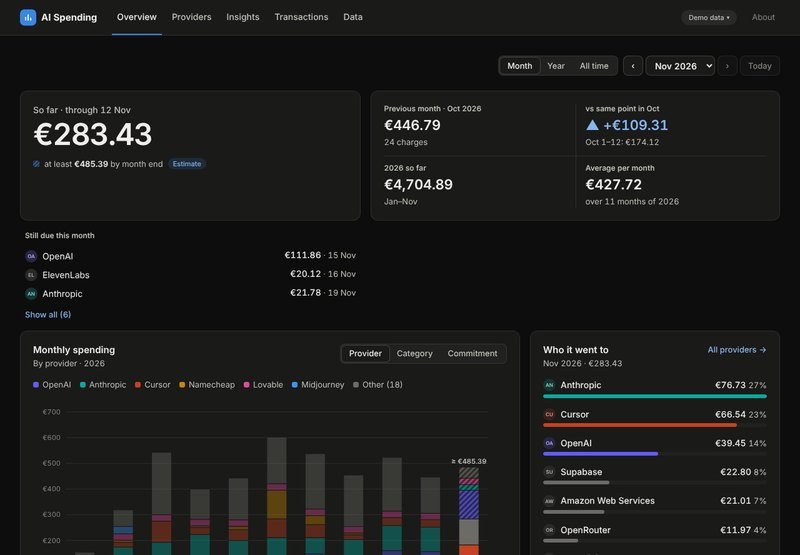
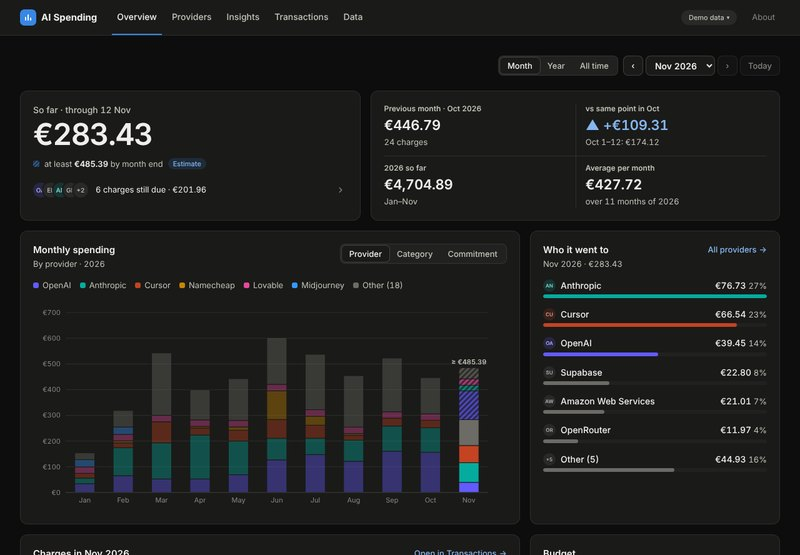
Overview: still-due row in the hero card with a popover
The still-due list under the hero card is gone. Inside the card, under the
estimate line, one clickable row shows an overlapping stack of the
providers still due, the count and sum, and a chevron. It opens a popover
anchored to the row (a bottom sheet on a phone) with every charge, the
usage so far and How is this estimated?, so the card keeps its height.
Escape or a click outside closes it. Nothing shows when nothing is still
due. Screenshots, README and changelog updated.

Claude-Session: https://claude.ai/code/session_01Qfp4rLyXRfcCbxc21jCuL9

diff --git a/src/components/OverviewHero.tsx b/src/components/OverviewHero.tsx
@@ -1,5 +1,6 @@
-import { useState, type ReactNode } from 'react';
+import { useEffect, useId, useRef, useState, type ReactNode } from 'react';
 import { filterPeriod, monthDrillDown, monthTotalThroughDay, rowsInMonths, totalsByMonth } from '../lib/analytics';
+import { OTHER_KEY } from '../lib/colors';
 import { addMonths, dateLabelShort, dayOf, monthLabel, monthOf, monthShort, yearOf } from '../lib/dates';
 import { STALE_AFTER_DAYS, type Forecast } from '../lib/forecast';
 import { formatEUR, sumCents } from '../lib/money';
@@ -7,7 +8,7 @@ import { describeOneTime, formatSignedNoBreak, oneTimeNote } from '../lib/oneTim
 import type { Period, Transaction } from '../lib/types';
 import { href, providerHref } from '../router';
 import { useLedger } from '../store';
-import { Button, Card, Change, Disclosure, ProviderAvatar, ReadChip, StatTile, StreamName } from './ui';
+import { Button, Card, Change, Chevron, Disclosure, ProviderAvatar, ReadChip, StatTile, StreamName } from './ui';
 
 /** The estimate for the month in progress. */
 export type HeroForecast = Extract<Forecast, { status: 'ok' | 'insufficient' }>;
@@ -24,8 +25,8 @@ export function heroLabel(period: Period, inProgress: boolean, yearInProgress: b
 
 /**
  * Row 1, left: a card as tall as the stat tile card, content at its top left: the label, the period's total and, for the month in
- * progress, "at least €X by month end" with a hatched swatch and an Estimate pill. What the estimate is made of is under the card
- * (`StillDue`).
+ * progress, "at least €X by month end" with a hatched swatch and an Estimate pill, and under it one row that opens what the
+ * estimate adds (`StillDueRow`), when anything is still due.
  */
 export function OverviewHero({
   label,
@@ -43,104 +44,165 @@ export function OverviewHero({
       <div className="hero-label">{label}</div>
       <div className="amt-hero num">{formatEUR(totalCents)}</div>
       {inProgress && forecast.status === 'ok' && (
-        <div className="hero-est">
-          {forecast.stillToComeCents > 0 && <span className="swatch-hatch" aria-hidden="true" />}
-          <span>
-            at least <strong className="num">{formatEUR(forecast.atLeastCents)}</strong> by month end
-          </span>
-          <ReadChip>Estimate</ReadChip>
-        </div>
+        <>
+          <div className="hero-est">
+            {forecast.stillToComeCents > 0 && <span className="swatch-hatch" aria-hidden="true" />}
+            <span>
+              at least <strong className="num">{formatEUR(forecast.atLeastCents)}</strong> by month end
+            </span>
+            <ReadChip>Estimate</ReadChip>
+          </div>
+          {forecast.expected.length > 0 && <StillDueRow forecast={forecast} />}
+        </>
       )}
       {inProgress && forecast.status === 'insufficient' && <div className="hero-est">No month-end estimate: {forecast.reason}</div>}
     </Card>
   );
 }
 
-const STILL_DUE_SHOWN = 3;
+const STACK_MAX = 4;
 
 /**
- * Under the hero card, for the month in progress only: the first three recurring charges that the estimate adds (avatar, provider,
- * amount, expected date). "Show all (N)" opens the rest, with how the estimate is worked out.
+ * One clickable row in the hero card: an overlapping stack of the providers still due (four at most, then "+N"), "N charges still
+ * due · €X" and a chevron. It opens a popover anchored to the row (a bottom sheet on a phone), so the card never changes height.
+ * Nothing is rendered when nothing is still due (the caller checks).
  */
-export function StillDue({ forecast: f }: { forecast: Extract<Forecast, { status: 'ok' }> }) {
-  const { span } = useLedger();
-  const [all, setAll] = useState(false);
-  const lastRecorded = span?.lastDate;
+function StillDueRow({ forecast: f }: { forecast: Extract<Forecast, { status: 'ok' }> }) {
+  const [open, setOpen] = useState(false);
+  const wrap = useRef<HTMLDivElement>(null);
+  const trigger = useRef<HTMLButtonElement>(null);
+  const sheet = useRef<HTMLDivElement>(null);
+  const id = useId();
   const n = f.expected.length;
-  const shown = all ? f.expected : f.expected.slice(0, STILL_DUE_SHOWN);
-  // With nothing hidden there is nothing to open, so the notes and the explanation are simply there.
-  const notes = all || n <= STILL_DUE_SHOWN;
+  const sum = sumCents(f.expected.map((e) => ({ amountCents: e.cents })));
+  const providers = [...new Set(f.expected.map((e) => e.provider))];
+  const shown = providers.slice(0, STACK_MAX);
+  const more = providers.length - shown.length;
+
+  const close = (returnFocus: boolean) => {
+    setOpen(false);
+    if (returnFocus) trigger.current?.focus();
+  };
+  useEffect(() => {
+    if (!open) return;
+    sheet.current?.focus();
+    const onDown = (e: MouseEvent) => !wrap.current?.contains(e.target as Node) && setOpen(false);
+    const onKey = (e: KeyboardEvent) => {
+      if (e.key === 'Escape') {
+        setOpen(false);
+        trigger.current?.focus();
+      }
+    };
+    document.addEventListener('mousedown', onDown);
+    document.addEventListener('keydown', onKey);
+    return () => {
+      document.removeEventListener('mousedown', onDown);
+      document.removeEventListener('keydown', onKey);
+    };
+  }, [open]);
+
   return (
-    <div className="still-due">
-      <div className="section-label">Still due this month</div>
-      {n === 0 ? (
-        <p className="meta">No recurring charges are still due this month.</p>
-      ) : (
-        <div className="due-list">
-          {shown.map((e) => (
-            <div key={`${e.provider}|${e.merchant}|${e.date}`} className="due-row">
-              <span className="due-name">
-                <ProviderAvatar provider={e.provider} size={20} />
-                <span className="due-text">
-                  <a className="provider-cell" href={providerHref(e.provider)}>{e.provider}</a>
-                  <StreamName provider={e.provider} merchant={e.merchant} labelOnly />
-                </span>
-              </span>
-              <span className="due-amount num" title={e.confirmed ? 'You confirmed this subscription' : 'Found by the pattern rule: monthly for 3+ months, last charged last month'}>
-                {formatEUR(e.cents)}
-                <span className="due-date"> · {dateLabelShort(e.date)}</span>
-              </span>
-            </div>
+    <div className="still-due" ref={wrap}>
+      <button
+        type="button"
+        ref={trigger}
+        className="still-due-row"
+        aria-haspopup="dialog"
+        aria-expanded={open}
+        aria-controls={open ? id : undefined}
+        onClick={() => setOpen((o) => !o)}
+      >
+        <span className="avatar-stack" aria-hidden="true">
+          {shown.map((p) => (
+            <ProviderAvatar key={p} provider={p} size={24} />
           ))}
-        </div>
-      )}
-      {n > STILL_DUE_SHOWN && (
-        <div>
-          <Button variant="text" aria-expanded={all} onClick={() => setAll((v) => !v)}>
-            {all ? 'Show fewer' : `Show all (${n})`}
-          </Button>
-        </div>
-      )}
-      {notes && (
+          {more > 0 && <ProviderAvatar provider={OTHER_KEY} size={24} text={`+${more}`} />}
+        </span>
+        <span>
+          {n} charge{n === 1 ? '' : 's'} still due · <span className="num">{formatEUR(sum)}</span>
+        </span>
+        <Chevron open={open} />
+      </button>
+      {open && (
         <>
-          {f.usageSoFarCents !== null && (
-            <p className="meta">
-              Usage so far <strong className="num hero-strong">{formatEUR(f.usageSoFarCents)}</strong> · not projected, not in the estimate
-            </p>
-          )}
-          {f.dataOld && (
-            <p className="meta">
-              Your data is more than a week old. <Button variant="text" href={href(['data'])}>Import newer statements</Button> for a better estimate.
-            </p>
-          )}
-          <div className="explain">
-            <Disclosure label="How is this estimated?">
-              <ol>
-                <li>
-                  <strong>Recorded so far</strong> is the sum of every transaction dated in {monthLabel(f.month)} up to the date the data runs through
-                  {lastRecorded ? ` (${dateLabelShort(lastRecorded)})` : ''}. It is the ledger, unchanged.
-                </li>
-                <li>
-                  <strong>Still due</strong> adds only recurring charges that are due later this month and that the app has strong reason to
-                  expect: a subscription you confirmed on its provider's page, or one found by the pattern rule (the same provider on a
-                  similar day and amount for 3+ months in a row) whose latest charge was last month. Each counts at that charge type's last
-                  actual charge, not an average. "Later" is counted from the date the data runs through, not from today: a charge that falls after the data
-                  ends has not been seen yet, even if its usual day has passed.
-                </li>
-                <li><strong>At least</strong> = recorded + still due. The month can cost more; it should not cost less.</li>
-                <li>
-                  <strong>Usage</strong> is pay-as-you-go, so it is not projected: the line shows what has been spent so far.{' '}
-                  <strong>One-time</strong> charges never feed the estimate.
-                </li>
-              </ol>
-              <p className="muted">
-                Nothing is shown when the data is more than {STALE_AFTER_DAYS} days old.
-                {f.asOfDay >= f.daysInMonth ? ' The month is over, so nothing is added.' : ''}
-              </p>
-            </Disclosure>
+          <div className="sheet-backdrop" onClick={() => close(true)} aria-hidden="true" />
+          <div className="popover" id={id} role="dialog" aria-label="Still due this month" tabIndex={-1} ref={sheet}>
+            <StillDueDetails forecast={f} onClose={() => close(true)} />
           </div>
         </>
       )}
+    </div>
+  );
+}
+
+/** The popover's content: every charge still due, the usage so far and how the estimate is worked out. */
+function StillDueDetails({ forecast: f, onClose }: { forecast: Extract<Forecast, { status: 'ok' }>; onClose: () => void }) {
+  const { span } = useLedger();
+  const lastRecorded = span?.lastDate;
+  return (
+    <div className="popover-body">
+      <div className="popover-head">
+        <div className="row">
+          <h3 className="popover-title">Still due this month</h3>
+          <ReadChip>Estimate</ReadChip>
+        </div>
+        <Button variant="text" onClick={onClose}>
+          Close
+        </Button>
+      </div>
+      <div className="due-list">
+        {f.expected.map((e) => (
+          <div key={`${e.provider}|${e.merchant}|${e.date}`} className="due-row">
+            <span className="due-name">
+              <ProviderAvatar provider={e.provider} size={20} />
+              <span className="due-text">
+                <a className="provider-cell" href={providerHref(e.provider)}>{e.provider}</a>
+                <StreamName provider={e.provider} merchant={e.merchant} labelOnly />
+              </span>
+            </span>
+            <span className="due-amount num" title={e.confirmed ? 'You confirmed this subscription' : 'Found by the pattern rule: monthly for 3+ months, last charged last month'}>
+              {formatEUR(e.cents)}
+              <span className="due-date"> · {dateLabelShort(e.date)}</span>
+            </span>
+          </div>
+        ))}
+      </div>
+      {f.usageSoFarCents !== null && (
+        <p className="meta">
+          Usage so far <strong className="num hero-strong">{formatEUR(f.usageSoFarCents)}</strong> · not projected, not in the estimate
+        </p>
+      )}
+      {f.dataOld && (
+        <p className="meta">
+          Your data is more than a week old. <Button variant="text" href={href(['data'])}>Import newer statements</Button> for a better estimate.
+        </p>
+      )}
+      <div className="explain">
+        <Disclosure label="How is this estimated?">
+          <ol>
+            <li>
+              <strong>Recorded so far</strong> is the sum of every transaction dated in {monthLabel(f.month)} up to the date the data runs through
+              {lastRecorded ? ` (${dateLabelShort(lastRecorded)})` : ''}. It is the ledger, unchanged.
+            </li>
+            <li>
+              <strong>Still due</strong> adds only recurring charges that are due later this month and that the app has strong reason to
+              expect: a subscription you confirmed on its provider's page, or one found by the pattern rule (the same provider on a
+              similar day and amount for 3+ months in a row) whose latest charge was last month. Each counts at that charge type's last
+              actual charge, not an average. "Later" is counted from the date the data runs through, not from today: a charge that falls after the data
+              ends has not been seen yet, even if its usual day has passed.
+            </li>
+            <li><strong>At least</strong> = recorded + still due. The month can cost more; it should not cost less.</li>
+            <li>
+              <strong>Usage</strong> is pay-as-you-go, so it is not projected: the line shows what has been spent so far.{' '}
+              <strong>One-time</strong> charges never feed the estimate.
+            </li>
+          </ol>
+          <p className="muted">
+            Nothing is shown when the data is more than {STALE_AFTER_DAYS} days old.
+            {f.asOfDay >= f.daysInMonth ? ' The month is over, so nothing is added.' : ''}
+          </p>
+        </Disclosure>
+      </div>
     </div>
   );
 }

diff --git a/src/styles.css b/src/styles.css
@@ -423,10 +423,9 @@ a.legend-item:hover { color: var(--text-1); text-decoration: underline; }
 
 /* ---------- overview: hero row, chart row, charges row ---------- */
 /* row 1: the hero sits on the page background, beside one card of four stat tiles */
-.overview-hero { display: grid; grid-template-columns: minmax(0, 1fr) minmax(0, 1.2fr); grid-template-areas: "hero tiles" "due ."; gap: var(--card-gap); align-items: stretch; }
+.overview-hero { display: grid; grid-template-columns: minmax(0, 1fr) minmax(0, 1.2fr); grid-template-areas: "hero tiles"; gap: var(--card-gap); align-items: stretch; }
 .hero-card { grid-area: hero; }
 .hero-tiles { grid-area: tiles; }
-.still-due { grid-area: due; display: flex; flex-direction: column; gap: var(--sp-2); min-width: 0; padding: 0 var(--sp-1); }
 .hero-label { font-size: var(--fs-body); font-weight: 500; color: var(--text-2); margin-bottom: 4px; }
 .hero-est { display: flex; align-items: center; flex-wrap: wrap; gap: 4px var(--sp-1); margin-top: var(--sp-2); font-size: var(--fs-meta); color: var(--text-2); }
 .hero-est strong { color: var(--text-1); font-weight: 600; }
@@ -446,8 +445,7 @@ a.legend-item:hover { color: var(--text-1); text-decoration: underline; }
 .bar-amount .meta { font-weight: 400; }
 @media (max-width: 1000px) {
   .overview-row { grid-template-columns: 1fr; }
-  /* hero, still due, then the tiles */
-  .overview-hero { grid-template-columns: 1fr; grid-template-areas: "hero" "due" "tiles"; }
+  .overview-hero { grid-template-columns: 1fr; grid-template-areas: "hero" "tiles"; }
 }
 @media (max-width: 560px) {
   /* narrow tiles: a tighter column gap, so the figures are never cut */
@@ -462,3 +460,33 @@ a.legend-item:hover { color: var(--text-1); text-decoration: underline; }
 .menu { position: absolute; top: calc(100% + 4px); right: 0; z-index: 30; min-width: 176px; padding: 4px; background: var(--surface); border: 1px solid var(--border-strong); border-radius: var(--card-radius); box-shadow: 0 6px 20px rgba(0, 0, 0, 0.12); display: flex; flex-direction: column; }
 .menu a, .menu button { display: block; width: 100%; padding: 8px 12px; border: 0; border-radius: var(--control-radius); background: none; color: var(--text-1); font: inherit; font-size: var(--fs-body); text-align: left; cursor: pointer; }
 .menu a:hover, .menu button:hover { background: var(--surface-hover); }
+
+/* ---------- still due: a row in the hero card, and the popover it opens (a bottom sheet on a phone) ---------- */
+.still-due { position: relative; margin-top: var(--sp-2); }
+.still-due-row {
+  display: flex; align-items: center; gap: var(--sp-2); width: calc(100% + var(--sp-2)); margin: 0 calc(var(--sp-1) * -1); padding: var(--sp-1);
+  border: 0; border-radius: var(--control-radius); background: none; color: var(--text-1); font: inherit; font-size: var(--fs-meta); text-align: left; cursor: pointer;
+}
+.still-due-row { --ring: var(--card-bg); }
+.still-due-row:hover, .still-due-row[aria-expanded='true'] { --ring: var(--surface-hover); background: var(--surface-hover); }
+.still-due-row:focus-visible { outline: 2px solid var(--accent); outline-offset: 1px; }
+.still-due-row .chevron { margin-left: auto; flex: none; }
+.avatar-stack { display: flex; flex: none; }
+.avatar-stack .avatar { box-shadow: 0 0 0 2px var(--ring, var(--card-bg)); }
+.avatar-stack .avatar + .avatar { margin-left: -8px; }
+.popover {
+  position: absolute; top: calc(100% + 4px); left: calc(var(--sp-1) * -1); z-index: 30; width: min(440px, calc(100vw - 2 * var(--page-pad)));
+  max-height: min(70vh, 560px); overflow-y: auto; background: var(--surface); border: 1px solid var(--border-strong); border-radius: var(--card-radius);
+  box-shadow: 0 6px 20px rgba(0, 0, 0, 0.12); outline: none;
+}
+.popover-body { display: flex; flex-direction: column; gap: var(--sp-3); padding: var(--card-pad); }
+.popover-head { display: flex; align-items: center; justify-content: space-between; gap: var(--sp-2); }
+.popover-title { font-size: var(--fs-title); font-weight: 600; letter-spacing: 0; }
+.sheet-backdrop { display: none; }
+@media (max-width: 700px) {
+  .sheet-backdrop { display: block; position: fixed; inset: 0; z-index: 40; background: rgba(0, 0, 0, 0.4); }
+  .popover {
+    position: fixed; top: auto; left: 0; right: 0; bottom: 0; z-index: 41; width: auto; max-height: 80vh; border-width: 1px 0 0;
+    border-radius: var(--card-radius) var(--card-radius) 0 0; padding-bottom: env(safe-area-inset-bottom); box-shadow: 0 -8px 30px rgba(0, 0, 0, 0.2);
+  }
+}

diff --git a/src/pages/Overview.tsx b/src/pages/Overview.tsx
@@ -1,6 +1,6 @@
 import { useMemo, useState } from 'react';
 import { BudgetCard } from '../components/BudgetSection';
-import { heroLabel, OverviewHero, OverviewTiles, StillDue } from '../components/OverviewHero';
+import { heroLabel, OverviewHero, OverviewTiles } from '../components/OverviewHero';
 import { MonthlyCategoryChart, MonthlyProviderChart, TypeChart } from '../components/charts';
 import { TransactionTable } from '../components/TransactionTable';
 import { Button, Card, CardAction, Disclosure, EmptyState, ProviderAvatar, ReadChip, Segmented } from '../components/ui';
@@ -17,8 +17,8 @@ type ChartView = 'provider' | 'category' | 'type';
 const VIEW_NAMES: Record<ChartView, string> = { provider: 'provider', category: 'category', type: 'commitment type' };
 
 /**
- * The Overview. Row 1: the hero card (what the period came to) beside the card of four stat tiles, and for the month in progress the
- * first still-due charges under the hero.
+ * The Overview. Row 1: the hero card (what the period came to, and for the month in progress what is still due) beside the card of
+ * four stat tiles.
  * Row 2: the monthly chart and who the money went to. Row 3: the period's charges and the budget.
  */
 export function Overview() {
@@ -60,7 +60,6 @@ export function Overview() {
       <div className="overview-hero">
         <OverviewHero label={heroLabel(period, inProgress, yearInProgress, asOf)} totalCents={sumCents(periodRows)} inProgress={inProgress} forecast={forecast} />
         <OverviewTiles period={period} inProgress={inProgress} asOf={asOf} />
-        {inProgress && forecast.status === 'ok' && <StillDue forecast={forecast} />}
       </div>
 
       <div className="overview-row">

diff --git a/README.md b/README.md
@@ -43,7 +43,7 @@ npm run licenses:check  # fail on a non-permissive dependency license or an out-
 
 | Page | What you get |
 |---|---|
-| **Overview** (how much) | Three rows. **Row 1**: two cards of the same height. The hero card, content at its top left: a short label ("So far · through 12 Nov" for the month in progress, "So far this year · through 12 Nov" for the year in progress, otherwise "Total"; the period picker says which month or year), the period's total in a 48px figure and, for the month in progress, "at least €X by month end" with a hatched swatch and an Estimate pill. Beside it, one card of four stat tiles (equal heights, a vertical and a horizontal divider; each a label, a value and a meta line) that follow the period picker: *Month*: previous month, vs the same point in the previous month (a past month: vs the previous month), the year so far, average per month; *Year*: previous year, vs the same months of the previous year, average per month, highest month; *All time*: average per month, highest month, charges, providers. Only the comparison tile has an arrow. When either period holds one-time charges you confirmed, one short line gives the comparison without them. Under the hero card, for the month in progress only, **Still due this month**: the first three recurring charges the estimate adds (avatar, provider, amount, expected date); **Show all (N)** opens the rest, the usage so far and how the estimate is worked out. A past month, a year and All time show no list. **Row 2**: the monthly chart (two thirds; stacked by provider, category or commitment type: subscription / usage / one-time, with a toggle top right) with the selected month solid and the others faded to about 38%, the month in progress topped by hatched segments for the charges still due and a "≥ €X" label, and **Who it went to** (one third): the top six providers for the period with avatar, amount, share and a bar, then the rest as Other (a grey "+N" avatar). **Click a bar to pick that month**, exactly as the date selector does (from Year view it switches to Month view for that month). **Row 3**: the period's charges, largest first (top 5, then **Show all**, with **Open in Transactions** to the same period pre-filtered), and the **Budget** card (one line and a button to set one, or a bar of recorded plus still due against it). Switch between Month / Year / All time at the top right; a Today button next to the arrows jumps to the current month or year (as far as the data reaches), and is disabled while it is already selected. On a phone the order is the hero, still due, the tiles (two columns), the chart, Who it went to, the charges and the budget. |
+| **Overview** (how much) | Three rows. **Row 1**: two cards of the same height. The hero card, content at its top left: a short label ("So far · through 12 Nov" for the month in progress, "So far this year · through 12 Nov" for the year in progress, otherwise "Total"; the period picker says which month or year), the period's total in a 48px figure and, for the month in progress, "at least €X by month end" with a hatched swatch and an Estimate pill. Beside it, one card of four stat tiles (equal heights, a vertical and a horizontal divider; each a label, a value and a meta line) that follow the period picker: *Month*: previous month, vs the same point in the previous month (a past month: vs the previous month), the year so far, average per month; *Year*: previous year, vs the same months of the previous year, average per month, highest month; *All time*: average per month, highest month, charges, providers. Only the comparison tile has an arrow. When either period holds one-time charges you confirmed, one short line gives the comparison without them. For the month in progress, when anything is still due, one clickable row under that line: an overlapping stack of the providers still due (four at most, then "+N"), "N charges still due · €X" and a chevron. It opens a popover anchored to the row (a bottom sheet on a phone), so the card keeps its height: every charge still due (avatar, provider, amount, expected date), the usage so far and **How is this estimated?**; Escape or a click outside closes it. Nothing is shown when nothing is still due, and a past month, a year and All time have no row. **Row 2**: the monthly chart (two thirds; stacked by provider, category or commitment type: subscription / usage / one-time, with a toggle top right) with the selected month solid and the others faded to about 38%, the month in progress topped by hatched segments for the charges still due and a "≥ €X" label, and **Who it went to** (one third): the top six providers for the period with avatar, amount, share and a bar, then the rest as Other (a grey "+N" avatar). **Click a bar to pick that month**, exactly as the date selector does (from Year view it switches to Month view for that month). **Row 3**: the period's charges, largest first (top 5, then **Show all**, with **Open in Transactions** to the same period pre-filtered), and the **Budget** card (one line and a button to set one, or a bar of recorded plus still due against it). Switch between Month / Year / All time at the top right; a Today button next to the arrows jumps to the current month or year (as far as the data reaches), and is disabled while it is already selected. On a phone the order is the hero card (with the still-due row), the tiles (two columns), the chart, Who it went to, the charges and the budget. |
 | **Providers** (who) | All providers with all-time total, spending in the selected period, a **trend arrow** (the last 3 complete months against the 3 before, one-time charges left out; an arrow only when the change is more than 5% and more than €5, otherwise flat), share, transaction count, and first / most recent charge. Search, sort any column, and filter by category and commitment type. Click a provider for its detail page, laid out like the Overview: a chart card (that provider's months for the selected year, following the period picker; click a bar to pick that month; the charges still due stack on the current month, and the axis starts at the provider's first charge) beside an **At a glance** card (all-time total with rank and share, charges, typical charge, last charge, and the provider's settings: a tag for new charges and a category). Below, its **charge types** (the one place to say what each is): a row shows the label or statement description, what it is read as, charges, total, last charge and status pills ("App's guess" until you confirm it; price change, overlap, stopped); open a row to change its label or type and to see its schedule, next charge, price history, overlap and whether anything still charges. Charge types with the same label are one plan. Then its full transaction history. A "To review" column shows how many charge types you have not confirmed yet. |
 | **Transactions** | Searchable, sortable table with original merchant descriptors and amounts. Filter by provider and date range (or "Use selected period"). Filters live in the URL, so provider pages and the overview link straight into a filtered view. Click a row to jump to its provider. Each charge can carry a tag (Personal, Business, a client), singly or for everything shown at once, and a charge imported by mistake can be deleted (with a confirmation). The type of a charge is shown but not changed here: it links to the provider page. |
 | **Insights** | What the data says, in four groups. **Patterns**: monthly spending with a 3-month average, subscription, usage and one-time over time ("more tools or more usage?"), and recurring-looking patterns. **Shifts**: price changes ("went from €22.49 to €109.38 in Jun") and stopped subscriptions with a check that nothing still charges. **Suggestions**: overlapping tools ("2 chat assistants · €130/month combined") and what ending each would save. **Comparisons**: year-over-year by calendar month, yearly totals with like-for-like comparison, biggest increases and decreases by provider (last 3 months vs the 3 before, or year to date vs last year), and provider concentration. Anything the app worked out is marked **App's read**, with the reasoning behind a "How are these found?" toggle. See [Insights](#insights). |
@@ -118,7 +118,7 @@ Export writes the same 4-column format with CRLF line endings (plus `Type` and `
 
 ## Current-month estimate
 
-Shown on the Overview when the selected month is the one in progress: "at least €X by month end" in the hero, the still-due charges stacked on the month's bar, and the **Still due this month** list under the hero. A closed month, a year and All time show no projection. It is deliberately conservative: a floor for the month, not a forecast.
+Shown on the Overview when the selected month is the one in progress: "at least €X by month end" in the hero, the still-due charges stacked on the month's bar, and the **Still due this month** popover opened from the hero card. A closed month, a year and All time show no projection. It is deliberately conservative: a floor for the month, not a forecast.
 
 1. **Recorded so far**: everything dated in the current month, exactly as recorded.
 2. **Still to come**: only recurring charges with strong evidence that are due later this month. Strong evidence is a subscription you **confirmed** on its provider's page, or one the pattern rule found (the same provider on a similar day and amount for 3+ months in a row) whose latest charge was in the **previous month**. A new price seen only once or twice does not count. Each counts at its charge type's **last actual charge**, never an average. "Later" is counted from the **latest recorded charge**, not from today: a charge due after the data ends has not been seen yet (even if its usual day has passed), while one due before the data ends that never arrived is not coming. The header says "Data through" with that date (the same date the whole Overview uses), and when the data is more than 7 days old a quiet line beside the chart links to Data.

diff --git a/CHANGELOG.md b/CHANGELOG.md
@@ -5,7 +5,7 @@ All notable changes to this project are listed here. The format follows [Keep a 
 ## [Unreleased]
 
 ### Changed
-- Overview, hero card: the hero is a card of the same height as the stat tile card, content at its top left (label, amount, "at least €X by month end" with the Estimate pill). For the month in progress the first three still-due charges (avatar, provider, amount, date) sit under it, and **Show all (N)** opens the rest with "How is this estimated?"; this replaces the "Still due (N)" link. Past periods show no list. The stat tiles show a label, a value and a meta line, with no sparklines (the comparison tile keeps its arrow); the sparkline code is removed.
+- Overview, hero card: the hero is a card of the same height as the stat tile card, content at its top left (label, amount, "at least €X by month end" with the Estimate pill). For the month in progress, one clickable row under that line shows an overlapping stack of the providers still due, "N charges still due · €X" and a chevron; it opens a popover (a bottom sheet on a phone) with every charge still due, the usage so far and "How is this estimated?", so the card never changes height. Nothing shows when nothing is still due. The stat tiles show a label, a value and a meta line, with no sparklines (the comparison tile keeps its arrow); the sparkline code is removed.
 - Overview polish: the four stat tiles have equal heights, a vertical and a horizontal divider, and a meta line each (Previous month and Previous year say how many charges they hold); "Other" in Who it went to has a grey +N avatar. The five main pages have no page title (the top bar says where you are; a hidden heading keeps the outline) and the Overview hero label is "So far · through 12 Nov" / "So far this year · through 12 Nov" / "Total"; the Overview header no longer has a "Data through" line (provider pages and the Data page keep theirs).
 - Overview layout and visual refresh. Row 1 is a hero on the page background (the period total at 48px; for the month in progress "at least €X by month end") beside one card of four stat tiles, which follow Month, Year and All time. Row 2 is the monthly chart and **Who it went to** (top six providers plus Other). Row 3 is the period's charges and the **Budget** card. The "Month in context" card is gone.
 - New palette: indigo, teal, orange, amber, pink and blue for providers, a grey Other, the same hues for categories (Domains is a deep pink so no two neighbours clash) and indigo, teal and amber for Subscription, Usage and One-time. Validated in light and dark; orange and amber were moved in lightness where the validator required it. Bars of periods that are not selected fade to 38%.
